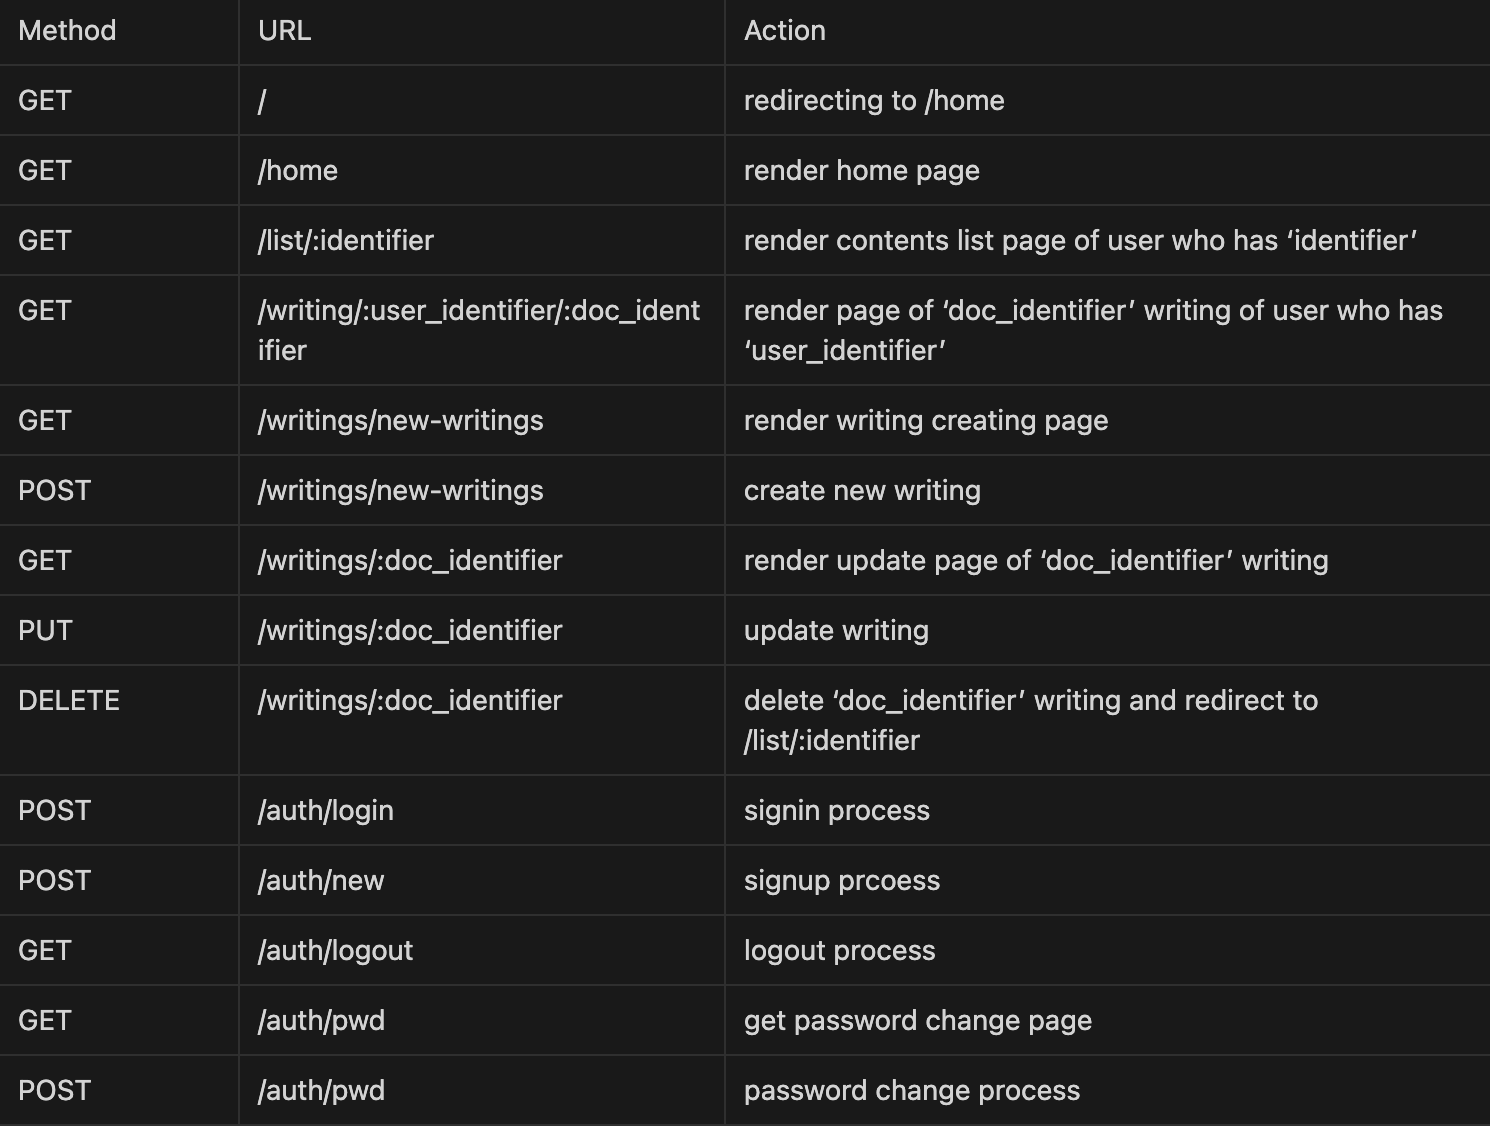
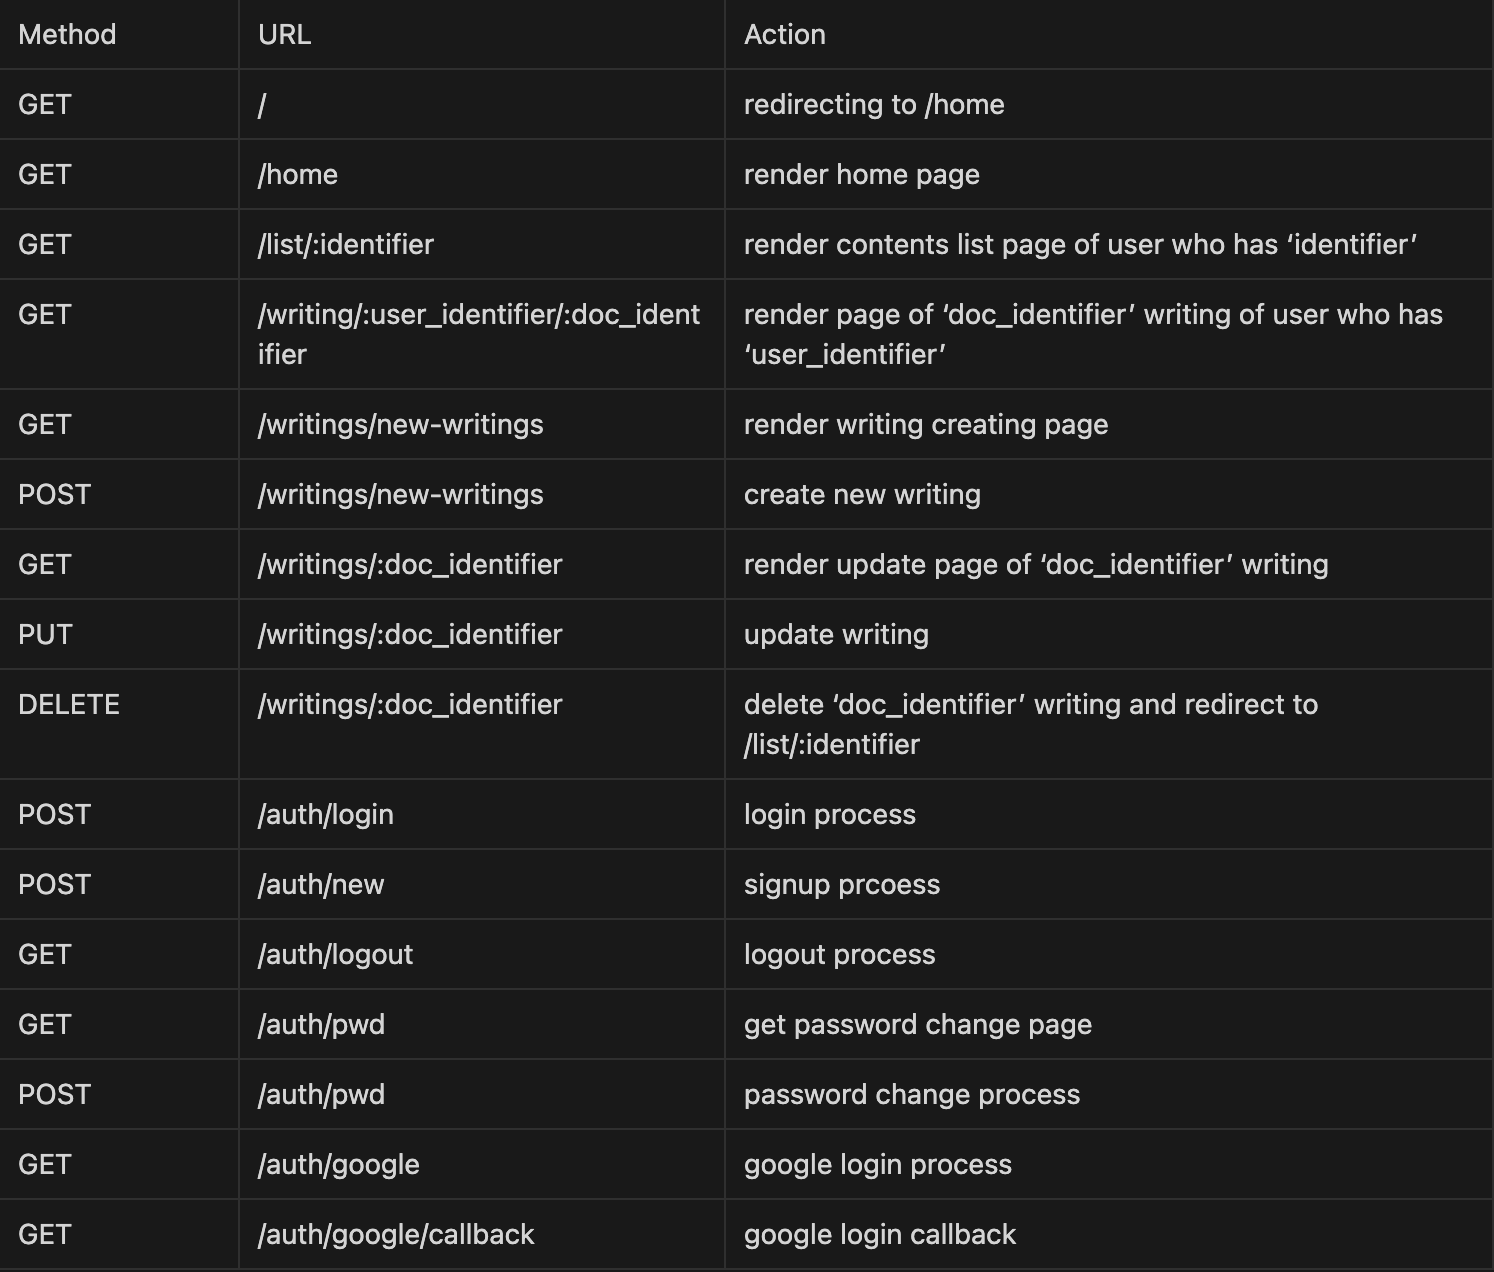
Readme

diff --git a/README.md b/README.md
@@ -18,8 +18,8 @@ This is my first personal project. It is a project that has experienced the actu
 ## Development
 * * *
 ### __1. Project Features__
- - Authentication: 회원가입시 아이디 중복 및 비밀번호 유효성 검사, 로그인 시 아이디 비밀번호 유효성 검사, 비밀번호 변경, 구글 OAuth 2.0
-- Diary: CRUD   
+ - Authentication: 회원가입시 아이디 중복 및 비밀번호 유효성 검사, 로그인 시 아이디 비밀번호 유효성 검사, 비밀번호 변경, 구글 OAuth 2.0, 
+- Diary: CRUD, 구글 캘린더 event 가져오기
 <br/>
 
 ### __2. Tech stack__
@@ -56,8 +56,13 @@ This is my first personal project. It is a project that has experienced the actu
 
 <br/>
 
+- ### oauth - Table that stores google oauth user information
+    <img src="./database/config/img/oauth.png" width= 500>
+
+<br/>
+
 ### __4. Database Design__
-### I did my best to make "Restful API".
+### I did my best to make 'Restful' API.
 <img src="./database/config/img/api.png" width= 600>
 
 <br/>
